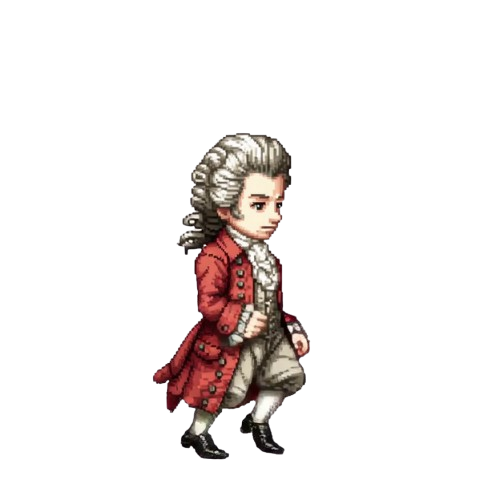
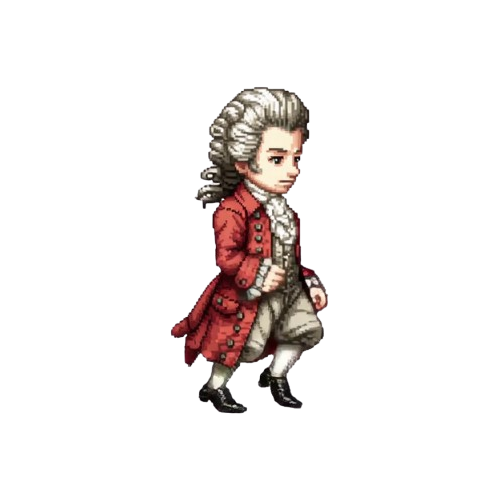
Fix yes/no button size and placement. Fix speech bubble appearance and placement

Changed region(s): [[0.3, 0.15, 0.66, 0.93]]

diff --git a/static/styles.css b/static/styles.css
@@ -25,15 +25,15 @@ body {
 #mozart {
   position: absolute;
   height: 230px;
-  left: 200px;
-  bottom: 30px;
+  left: 170px;
+  bottom: 0px;
 }
 
 /* Mozart's dialogue */
 #dialogue {
   position: absolute;
-  left: 280px;
-  bottom: 300px;
+  left: 300px;
+  bottom: 200px;
   background: #f4f0e4;
   color: #1a1a1a;
   font-style: italic;
@@ -44,20 +44,38 @@ body {
   margin: 0;
 }
 
+#dialogue:empty {
+  display: none;
+}
+
 #dialogue::after {
   content: "";
   position: absolute;
   bottom: -18px;
-  left: 1.5rem;
+  left: 1rem;
   border-width: 18px 12px 0 0;
   border-style: solid;
   border-color: #f4f0e4 transparent transparent transparent;
 }
- 
+
 #choices {
   position: absolute;
-  left: 300px;
-  bottom: 240px;
+  left: 50%;
+  bottom: 340px;
+  transform: translateX(-50%);
+  display: flex;
+  gap: 1rem;
+}
+
+#choices[hidden] {
+  display: none;    /* the [hidden] attribute loses to the display above without this */
+}
+
+#choices button {
+  font-family: Georgia, serif;
+  font-size: 1.1rem;
+  padding: 0.6rem 1.8rem;
+  cursor: pointer;
 }
 
 /* The full-size sheet music shown when a fragment is being inspected */

diff --git a/static/game.js b/static/game.js
@@ -72,6 +72,7 @@ function playFragment(fragment) {
 async function say(text, seconds) {
   dialogue.textContent = text;
   await sleep(seconds * 1000);
+  dialogue.textContent = "";
 }
 
 function ask(question) {
@@ -161,7 +162,7 @@ function walkIn() {
       x += 12;
       mozart.style.left = `${x}px`;
 
-      if (x >= 200) {
+      if (x >= 170) {
         clearInterval(timer);
         mozart.src = "/static/img/mozart/mozart.png";
         mozart.style.left = ""; //  drop the inline override; CSS owns his resting spot.
